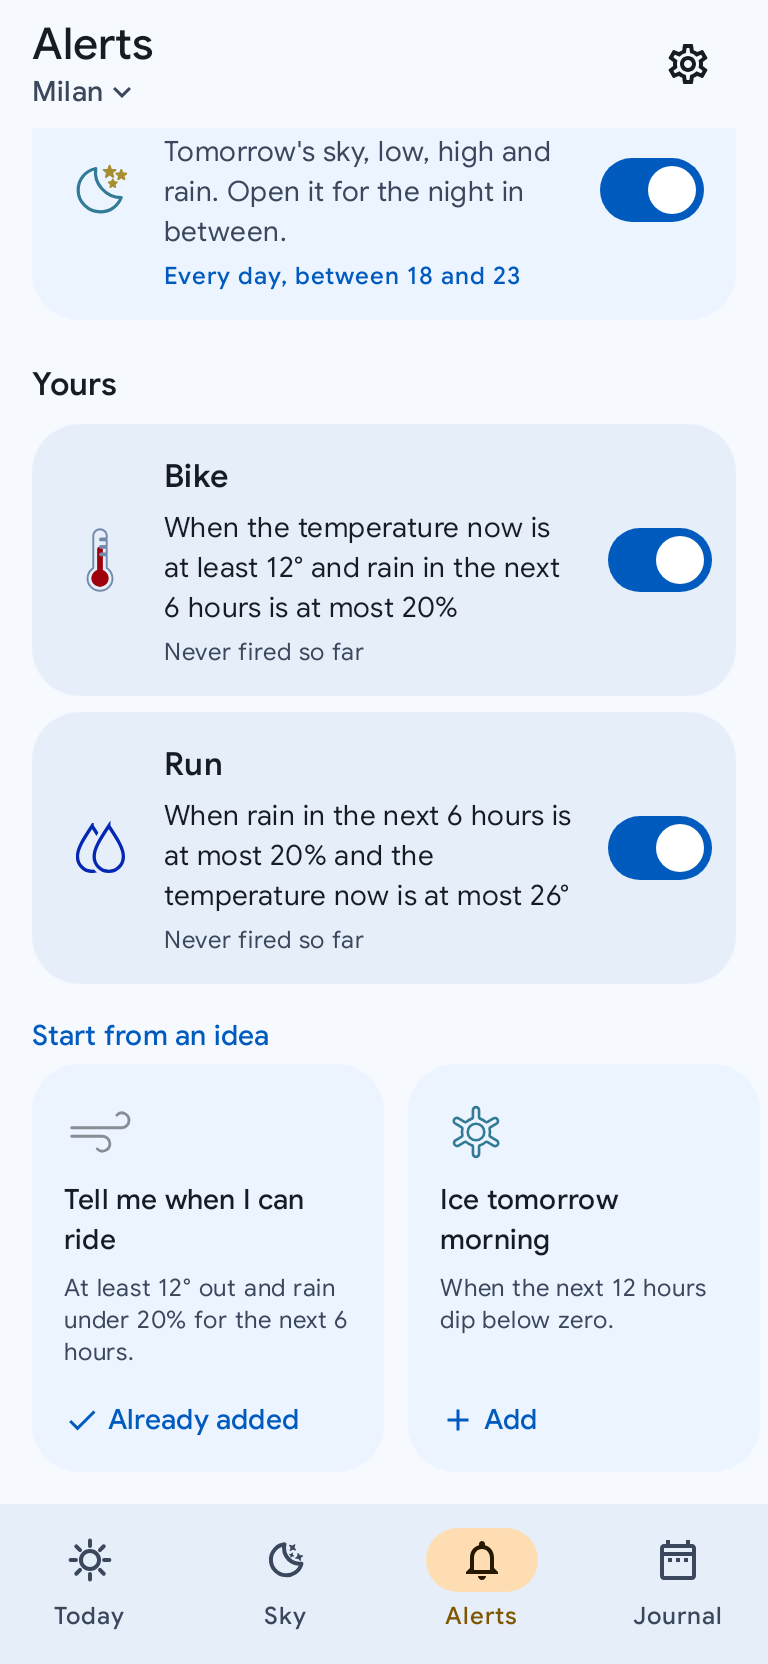
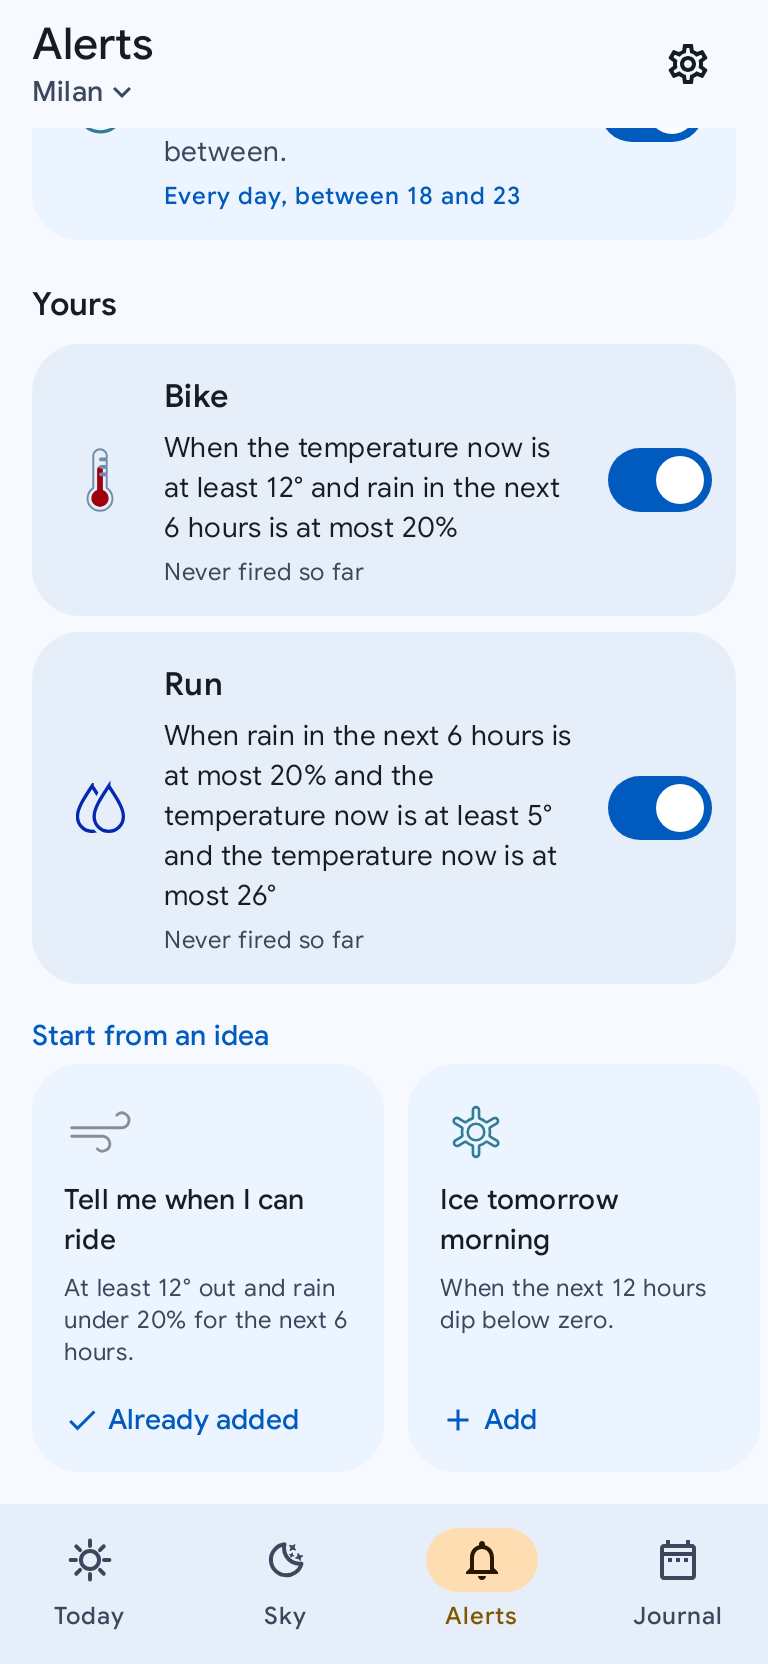
Run ideas in two bands, three conditions per alert
The Run idea had no lower bound and could invite a run at -5°. It now
covers 5-26°, and a new "Corsa al freddo" idea covers 0-5° with the
cold's precautions; at 0° and under there is no invitation, since the
ice on the asphalt is what the app cannot see and "Ghiaccio domattina"
already speaks there. A range plus the rain is three conditions, so
MaxConditions goes from 2 to 3.

The new idea draws thermometer-colder, moved to SHIPPED and imported.
alerts-yours.png regenerated.

Claude-Session: https://claude.ai/code/session_01GZLHmQNifA8LxqWvUnqyA8

diff --git a/app/src/test/kotlin/com/callbackdev/chiaro/ui/alerts/RunTemplatesTest.kt b/app/src/test/kotlin/com/callbackdev/chiaro/ui/alerts/RunTemplatesTest.kt
@@ -1,0 +1,69 @@
+package com.callbackdev.chiaro.ui.alerts
+
+import com.callbackdev.chiaro.R
+import com.callbackdev.chiaro.domain.rules.MaxConditions
+import com.callbackdev.chiaro.domain.rules.NotificationRule
+import com.callbackdev.chiaro.domain.rules.RuleCheck
+import com.callbackdev.chiaro.domain.rules.RuleEngine
+import com.callbackdev.chiaro.domain.sample.sampleWeatherReport
+import java.time.LocalDateTime
+import org.junit.Assert.assertEquals
+import org.junit.Assert.assertTrue
+import org.junit.Test
+
+/**
+ * The run in two bands (26 set 2026): the plain run from 5 to 26°, the cold run above 0
+ * and under 5, nothing at 0 and below. Checked through the engine itself, on the sample
+ * report (rain at most 10% in the next six hours), so a band is what a reader receives.
+ */
+class RunTemplatesTest {
+
+    private val now = LocalDateTime.of(2023, 10, 27, 14, 30)
+    private val run = RuleText.templates.single { it.titleRes == R.string.tpl_run_title }
+    private val coldRun = RuleText.templates.single { it.titleRes == R.string.tpl_cold_run_title }
+
+    private fun fires(template: RuleText.Template, tempC: Double): Boolean {
+        val base = sampleWeatherReport()
+        val report = base.copy(current = base.current.copy(tempC = tempC))
+        val rule = NotificationRule(id = 1L, name = "", conditions = template.conditions, message = "")
+        return RuleEngine.check(rule, report, now) is RuleCheck.Fires
+    }
+
+    @Test
+    fun `every idea fits the builder`() {
+        RuleText.templates.forEach { template ->
+            assertTrue(template.conditions.size in 1..MaxConditions)
+        }
+    }
+
+    @Test
+    fun `the run bands meet at 5 and 0, with no gap and no overlap`() {
+        // temperature to (plain run, cold run)
+        mapOf(
+            -3.0 to (false to false),
+            0.0 to (false to false),
+            0.5 to (false to true),
+            4.9 to (false to true),
+            5.0 to (true to false),
+            18.0 to (true to false),
+            26.0 to (true to false),
+            26.5 to (false to false),
+        ).forEach { (tempC, expected) ->
+            assertEquals("run at $tempC °C", expected.first, fires(run, tempC))
+            assertEquals("cold run at $tempC °C", expected.second, fires(coldRun, tempC))
+        }
+    }
+
+    @Test
+    fun `a wet window silences both`() {
+        val base = sampleWeatherReport()
+        val wet = base.copy(
+            current = base.current.copy(tempC = 3.0),
+            hourly = base.hourly.map { it.copy(precipChancePct = 60) }
+        )
+        listOf(run, coldRun).forEach { template ->
+            val rule = NotificationRule(id = 1L, name = "", conditions = template.conditions, message = "")
+            assertEquals(RuleCheck.Passes, RuleEngine.check(rule, wet, now))
+        }
+    }
+}

diff --git a/app/src/main/kotlin/com/callbackdev/chiaro/ui/alerts/RuleText.kt b/app/src/main/kotlin/com/callbackdev/chiaro/ui/alerts/RuleText.kt
@@ -207,6 +207,10 @@ object RuleText {
         val conditions: List<RuleCondition>
     )
 
+    /** Where the plain run ends and the cold one begins: the practical line of an
+     * amateur runner, under which gloves, layers and a longer warm-up come out. */
+    private const val RunColdBelowC = 5.0
+
     val templates: List<Template> = listOf(
         Template(
             R.string.tpl_bike_title, R.string.tpl_bike_desc,
@@ -221,12 +225,28 @@ object RuleText {
             R.string.tpl_ice_name, R.string.tpl_ice_message,
             listOf(RuleCondition("next_12h.temp_c_min", RuleOp.LTE, 0.0))
         ),
+        // The run in two bands (26 set 2026, committente): from 5° it is the plain
+        // invitation; between 0 and 5 it still runs, with the cold's precautions; at 0 and
+        // under there is no idea at all, because an invitation to run over ice is the one
+        // risk the app cannot see (ice on the asphalt is the wet ground's, not the air's)
+        // and «Ghiaccio domattina» already speaks at that same 0°. The bands meet without
+        // a gap or an overlap: 5° is the plain run's, 0° is neither's.
         Template(
             R.string.tpl_run_title, R.string.tpl_run_desc,
             R.string.tpl_run_name, R.string.tpl_run_message,
             listOf(
                 RuleCondition("next_6h.precip_chance_max", RuleOp.LTE, 20.0),
+                RuleCondition("current.temp_c", RuleOp.GTE, RunColdBelowC),
                 RuleCondition("current.temp_c", RuleOp.LTE, 26.0)
+            )
+        ),
+        Template(
+            R.string.tpl_cold_run_title, R.string.tpl_cold_run_desc,
+            R.string.tpl_cold_run_name, R.string.tpl_cold_run_message,
+            listOf(
+                RuleCondition("next_6h.precip_chance_max", RuleOp.LTE, 20.0),
+                RuleCondition("current.temp_c", RuleOp.GT, 0.0),
+                RuleCondition("current.temp_c", RuleOp.LT, RunColdBelowC)
             )
         ),
         Template(

diff --git a/app/src/main/kotlin/com/callbackdev/chiaro/ui/icons/MeteoconsSets.kt b/app/src/main/kotlin/com/callbackdev/chiaro/ui/icons/MeteoconsSets.kt
@@ -101,6 +101,7 @@ internal object MeteoconsSets {
         R.drawable.mc3_pollen_grass_very_high to R.drawable.mc3n_pollen_grass_very_high,
         R.drawable.mc3_pollen_tree_very_high to R.drawable.mc3n_pollen_tree_very_high,
         R.drawable.mc3_pollen_weed_very_high to R.drawable.mc3n_pollen_weed_very_high,
+        R.drawable.mc3_thermometer_colder to R.drawable.mc3n_thermometer_colder,
     )
 
     /** flat, fondo chiaro. */
@@ -187,6 +188,7 @@ internal object MeteoconsSets {
         R.drawable.mc3_pollen_grass_very_high to R.drawable.mc3f_pollen_grass_very_high,
         R.drawable.mc3_pollen_tree_very_high to R.drawable.mc3f_pollen_tree_very_high,
         R.drawable.mc3_pollen_weed_very_high to R.drawable.mc3f_pollen_weed_very_high,
+        R.drawable.mc3_thermometer_colder to R.drawable.mc3f_thermometer_colder,
     )
 
     /** flat, fondo scuro. */
@@ -273,6 +275,7 @@ internal object MeteoconsSets {
         R.drawable.mc3_pollen_grass_very_high to R.drawable.mc3fn_pollen_grass_very_high,
         R.drawable.mc3_pollen_tree_very_high to R.drawable.mc3fn_pollen_tree_very_high,
         R.drawable.mc3_pollen_weed_very_high to R.drawable.mc3fn_pollen_weed_very_high,
+        R.drawable.mc3_thermometer_colder to R.drawable.mc3fn_thermometer_colder,
     )
 
     /**
@@ -467,5 +470,6 @@ internal object MeteoconsSets {
         "pollen-grass-very-high" to R.drawable.mc3_pollen_grass_very_high,
         "pollen-tree-very-high" to R.drawable.mc3_pollen_tree_very_high,
         "pollen-weed-very-high" to R.drawable.mc3_pollen_weed_very_high,
+        "thermometer-colder" to R.drawable.mc3_thermometer_colder,
     )
 }

diff --git a/core/domain/src/main/kotlin/com/callbackdev/chiaro/domain/rules/NotificationRule.kt b/core/domain/src/main/kotlin/com/callbackdev/chiaro/domain/rules/NotificationRule.kt
@@ -4,7 +4,7 @@ import kotlinx.serialization.Serializable
 
 /**
  * The "Weather CI" mini-language (Fase 11) is deliberately NOT a language: a rule is
- * a structure of 1–2 (variable, operator, threshold) conditions plus a message,
+ * a structure of 1–3 (variable, operator, threshold) conditions plus a message,
  * edited token by token in `alerts.rules`. A syntax error is not writable, so there
  * is no parser and no diagnostics anywhere in this package.
  */
@@ -60,5 +60,10 @@ data class NotificationRule(
 /** Low ceiling on purpose: alerts.rules is a config file, not a database. */
 const val MaxRules = 10
 
-/** One `and`, no `or`, no parentheses — the v1 boundary (PLANNING, Fase 11). */
-const val MaxConditions = 2
+/**
+ * `and` only, no `or`, no parentheses — the v1 boundary (PLANNING, Fase 11). Three since
+ * 26 set 2026: a range on one quantity is two conditions («from 5° to 26°»), and with two
+ * the most natural rule a reader writes — between two temperatures, and dry — could not be
+ * said at all. The run ideas are exactly that rule.
+ */
+const val MaxConditions = 3

diff --git a/app/src/main/kotlin/com/callbackdev/chiaro/ui/alerts/AlertsScreen.kt b/app/src/main/kotlin/com/callbackdev/chiaro/ui/alerts/AlertsScreen.kt
@@ -926,6 +926,7 @@ private fun templateIcon(template: RuleText.Template): ImageVector = when (templ
     R.string.tpl_bike_title -> ChiaroIcons.wind
     R.string.tpl_ice_title -> ChiaroIcons.frost
     R.string.tpl_run_title -> ChiaroIcons.condition(PartlyCloudyCode)
+    R.string.tpl_cold_run_title -> ChiaroIcons.colder
     R.string.tpl_uv_title -> ChiaroIcons.uv
     R.string.tpl_heat_title -> ChiaroIcons.dewPoint
     R.string.tpl_night_title -> ChiaroIcons.goldenHour
@@ -1059,7 +1060,7 @@ private val FlushTextButtonPadding = PaddingValues(horizontal = 0.dp, vertical =
 
 /**
  * The builder (VISION §5.4): a sentence of tappable chips — variable, operator,
- * threshold — an optional second condition, the reader's own message, and a dry run
+ * threshold — up to two more conditions, the reader's own message, and a dry run
  * that says what the rule would do right now without posting anything. Chip edits
  * persist immediately; the two text fields land when the sheet closes.
  */

diff --git a/app/src/main/kotlin/com/callbackdev/chiaro/ui/icons/ChiaroIcons.kt b/app/src/main/kotlin/com/callbackdev/chiaro/ui/icons/ChiaroIcons.kt
@@ -493,6 +493,10 @@ object ChiaroIcons {
      * The accessor names the metric (§13.1), which is why it is not called
      * `snowflake`. */
     val frost: ImageVector @Composable get() = styled(R.drawable.mc3_snowflake)
+
+    /** Cold that is not yet ice (26 set 2026): the «Corsa al freddo» idea, between 0 and
+     * 5°. The snowflake is [frost]'s, and this band is exactly the one above it. */
+    val colder: ImageVector @Composable get() = styled(R.drawable.mc3_thermometer_colder)
     /**
      * `smoke`, not `smoke-particles` (11 set 2026, committente). Meteocons draws the
      * particles alone as three specks that fill a third of their box — the smallest mark

diff --git a/tools/shipped_icons.py b/tools/shipped_icons.py
@@ -53,6 +53,9 @@ SHIPPED = [
     # il quinto livello dei pollini (24 set 2026): le soglie per specie di MeteoSwiss hanno
     # «molto alto», e il tile ora lo dice in parole, quindi il disegno puo' dirlo
     "pollen-grass-very-high", "pollen-tree-very-high", "pollen-weed-very-high",
+    # il freddo che non e' ancora ghiaccio (26 set 2026): l'idea «Corsa al freddo», tra
+    # 0 e 5°, un gradino sopra il fiocco del gelo
+    "thermometer-colder",
 ]
 
 #: Scelte, verificate presenti a monte, e **non spedite**: nessuna schermata le disegna
@@ -78,7 +81,7 @@ PLANNED = [
     "wind-beaufort-3", "wind-beaufort-4", "wind-beaufort-5", "wind-beaufort-6",
     "wind-beaufort-7", "wind-beaufort-8", "wind-beaufort-9", "wind-beaufort-10",
     "wind-beaufort-11", "wind-beaufort-12", "umbrella-wind", "smoke",
-    "thermometer-warmer", "thermometer-colder", "wind-direction-n",
+    "thermometer-warmer", "wind-direction-n",
     "wind-direction-ne", "wind-direction-e", "wind-direction-se", "wind-direction-s",
     "wind-direction-sw", "wind-direction-w", "wind-direction-nw", "rainbow-clear",
     "rainbow-cloud", "time-morning", "time-late-morning", "time-afternoon",

diff --git a/PLANNING.md b/PLANNING.md
@@ -11335,3 +11335,46 @@ notte su 14-15° si sveglia verso i 16°, che per molti è fredda. Due difetti n
 minima sopra i 20°). La fascia si legge sul valore del modello, non su quello stampato, come le
 altre della notte. `NightMeaningTest` fissa i bordi e il caso di stanotte: le fasce non avevano
 un test.
+
+### La corsa in due fasce, e tre condizioni per avviso (committente, 26 set 2026)
+
+Dalla revisione delle frasi legate alla temperatura nelle notifiche (le altre stampano il
+numero nudo; i modelli degli avvisi hanno soglie fisse, e quella della Corsa non aveva un
+minimo: poteva dire «Buona finestra per correre» a −5°). Proposta del committente: il
+messaggio attuale da 5° in su, uno con le precauzioni fra 0 e 5°, perché è il limite pratico
+di molti corridori amatoriali; sotto zero l'aria gelida dà fastidio ai polmoni e soprattutto
+cresce il rischio di lastre di ghiaccio sull'asfalto.
+
+**D'accordo su 5° e su 0-5°; sotto zero, niente.** Il modello è un invito («vai a
+correre»), e sotto zero sarebbe l'app che invita al rischio che non sa misurare: il ghiaccio
+sull'asfalto è dell'asfalto bagnato (pioggia o neve delle ore prima), non dell'aria. A −2°
+su asciutto si corre bene, a +1° dopo una pioggia no. Il pericolo lo dice già «Ghiaccio
+domattina», alla stessa soglia di 0°.
+
+**Tre condizioni per avviso** (`MaxConditions` da 2 a 3): una regola è condizioni in «e» più
+un messaggio solo, quindi le fasce sono due modelli; e una temperatura fra due valori più la
+pioggia sono tre condizioni. Con due, la regola più naturale che un lettore scrive («tra 5 e
+26° e non piove») non si poteva dire. L'editor offre la terza con lo stesso pulsante; la
+notifica elenca già le condizioni una per riga.
+
+| Modello | Condizioni | Messaggio |
+|---|---|---|
+| Una finestra per correre («Corsa») | pioggia 6 h ≤ 20%, adesso ≥ 5°, adesso ≤ 26° | «Buona finestra per correre: {current.temp_c} e pioggia al {next_6h.precip_chance_max}.» |
+| Corsa al freddo (nuovo) | pioggia 6 h ≤ 20%, adesso > 0°, adesso < 5° | «Si corre, ma fa freddo: {current.temp_c}. Strati, guanti e riscaldamento più lungo.» |
+
+- I bordi si toccano senza buchi né sovrapposizioni: 5,0° è della Corsa, 4,9° di quella al
+  freddo, 0,0° di nessuna delle due (è del Ghiaccio). Il messaggio della Corsa dice ora anche
+  la temperatura, visto che è lei a decidere la fascia.
+- Chi aveva già aggiunto «Corsa» tiene la sua regola, senza minimo: un avviso salvato è testo
+  del lettore. Cambia solo quel che si aggiunge da ora.
+- Il disegno dell'idea nuova è `thermometer-colder`, spostato da PLANNED a SHIPPED in
+  `tools/shipped_icons.py` e importato con `tools/import_meteocons_v3.py` (dal pacchetto
+  `@meteocons/svg@3.0.0-next.10`): nessun drawable cambia, `MeteoconsSets.kt` guadagna le sue
+  quattro righe; `compose_sun_cloud.py` rieseguito, zero differenze.
+- `RunTemplatesTest` passa le fasce dal motore vero (−3, 0, 0,5, 4,9, 5, 18, 26, 26,5°), la
+  finestra bagnata che le spegne entrambe, e che ogni idea stia nel limite dell'editor.
+- `alerts-yours.png` rigenerato: la card «Run» dice ora la sua fascia. Il testo alternativo
+  resta vero. La frase della card ripete «la temperatura adesso» due volte («almeno 5° e …
+  al massimo 26°»): leggere due condizioni sulla stessa quantità come «tra 5° e 26°» è un
+  seguito possibile, non fatto qui.
+- VISION §5.4 e la guida degli avvisi dicono «fino a due condizioni in più».

diff --git a/VISION.md b/VISION.md
@@ -410,11 +410,13 @@ Three groups, one screen (the first arrived with §12.8, 9 set 2026; the screen 
   and off in two taps.
 - **Yours**: the rules engine, approached from the answer rather than the syntax.
   - **Templates first**: "Tell me when I can ride", "Ice tomorrow morning", "A window to run",
-    "High UV", "A clear night". Picking one creates a real rule with sensible thresholds, already on.
+    "A run in the cold", "High UV", "A clear night". Picking one creates a real rule with sensible
+    thresholds, already on.
   - **The builder** is a sentence with three tappable chips: *Notify me when* **[rain, next 6 h]**
-    *is* **[above]** **[70%]**, plus an optional second condition and the message. Pickers, never a
-    text field for a value that has a range: the property tweather bought with token-by-token
-    editing — a syntax error cannot be written — is kept, and it costs nothing in a chip UI.
+    *is* **[above]** **[70%]**, plus up to two more conditions (three in all since 26 set 2026:
+    a range is two) and the message. Pickers, never a text field for a value that has a range:
+    the property tweather bought with token-by-token editing — a syntax error cannot be
+    written — is kept, and it costs nothing in a chip UI.
   - **Preview** runs the rule against the current data and says what it would have done, with no
     notification posted.
   - Each rule card shows its sentence, its state, and when it last fired.
